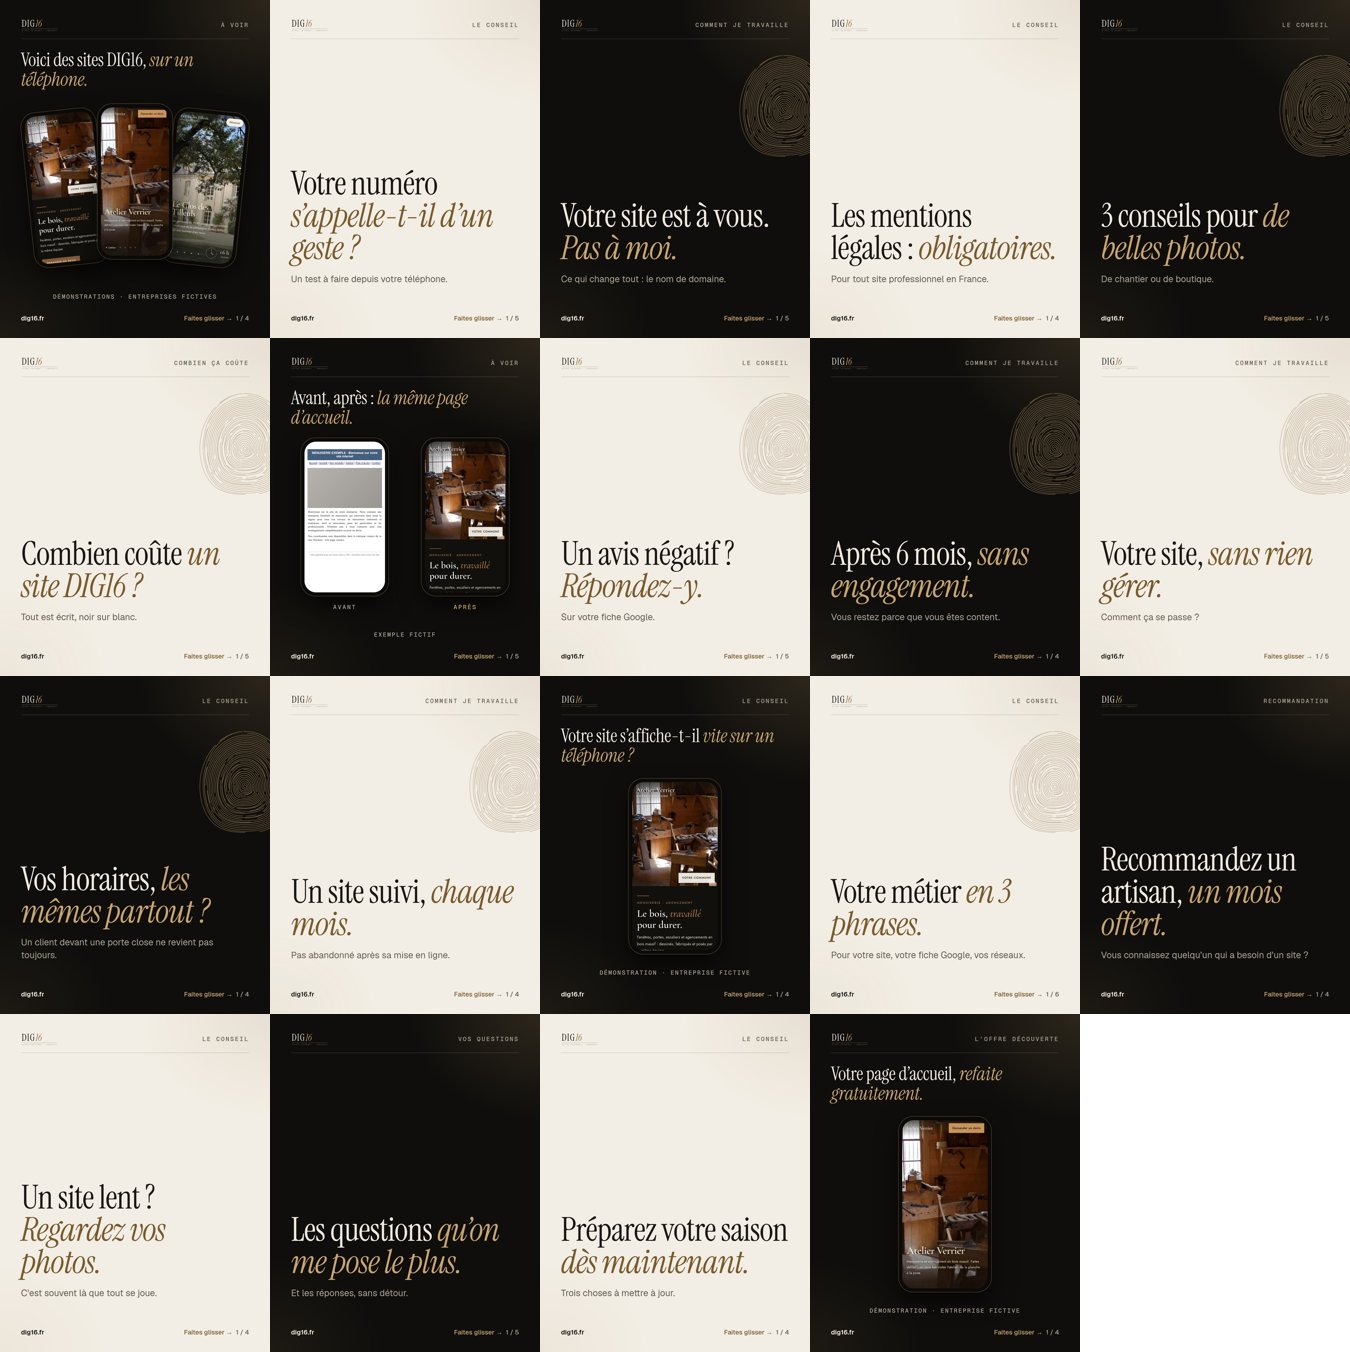
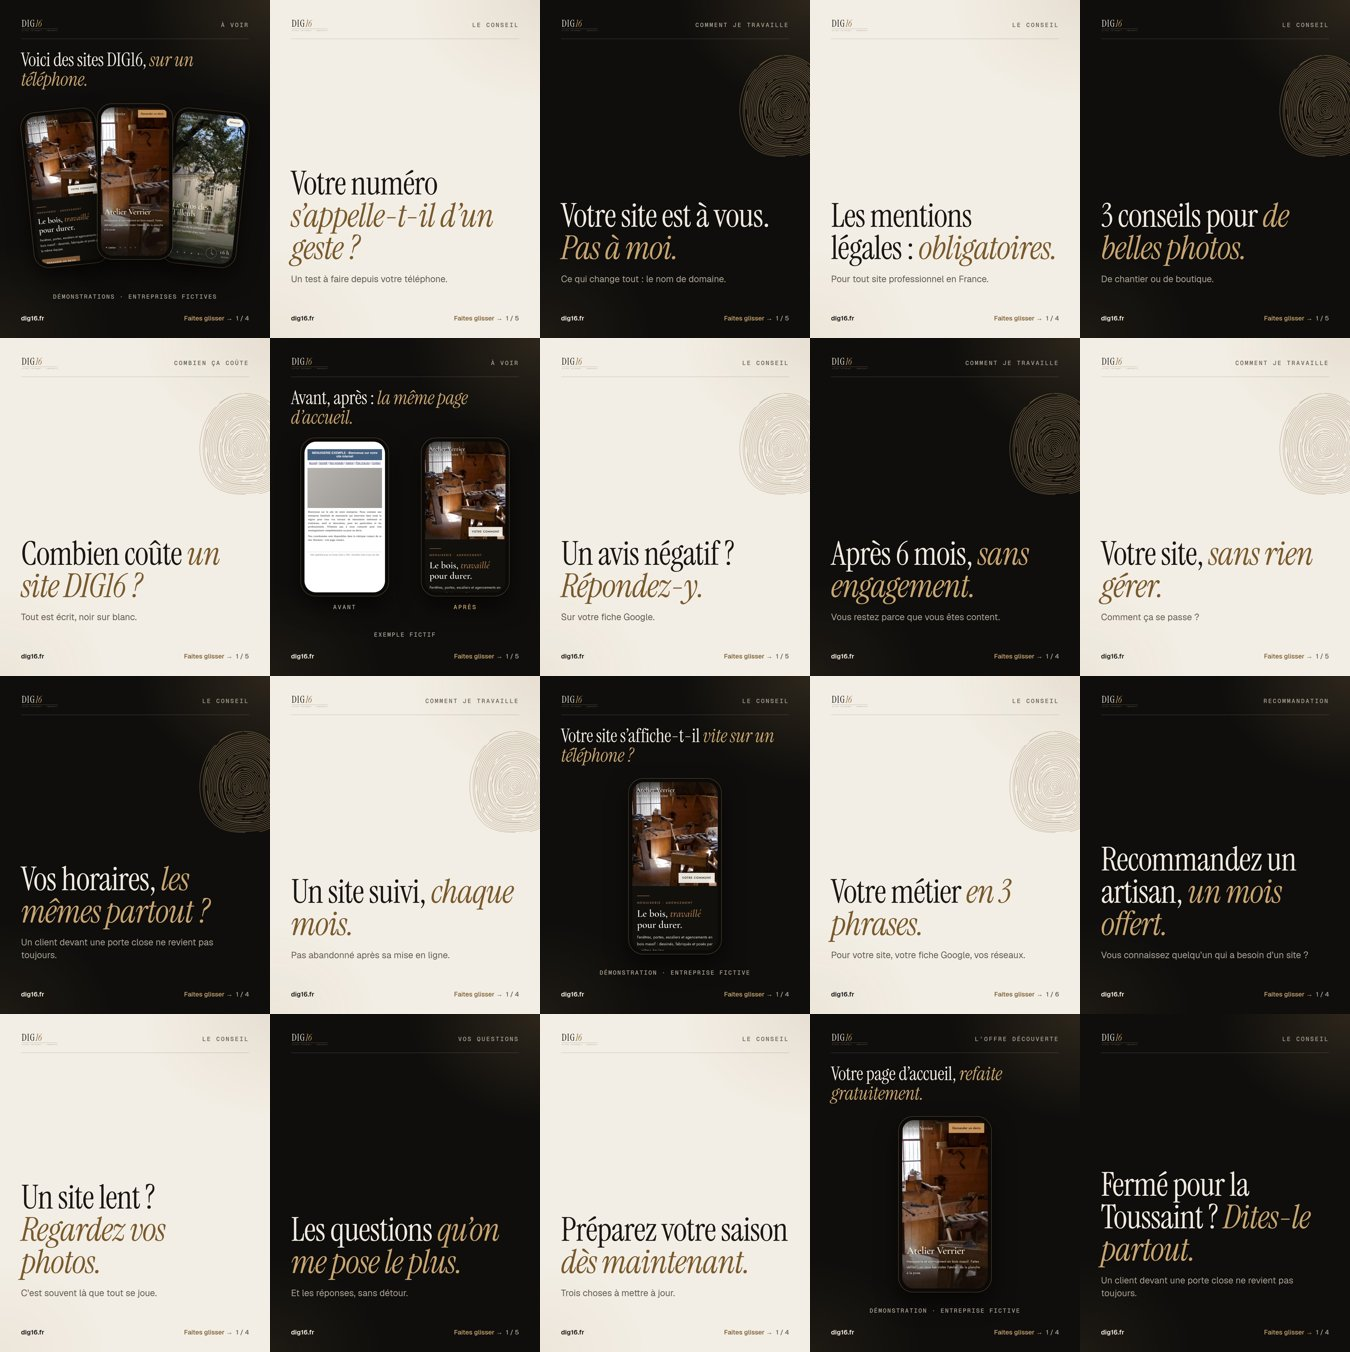
Publications : carrousel p20 « Fermé pour la Toussaint ? Dites-le partout » pour le samedi 31/10 (demande de l'utilisateur)
Claude-Session: https://claude.ai/code/session_01HXUPij67xudweYwrEb9uHq

Changed region(s): [[0.7778, 0.7456, 1.0, 1.0]]

diff --git a/ai-business-lab/chasse-demande/outils/marque/publications_v2.py b/ai-business-lab/chasse-demande/outils/marque/publications_v2.py
@@ -276,6 +276,23 @@ SERIE = [
      "legende": "Votre page d'accueil refaite gratuitement, pour voir avant de décider 🎁\n"
                 "Aucune obligation. Écrivez-moi ou appelez.",
      "alt": "L'offre découverte DIG16 : votre page d'accueil refaite gratuitement, sans obligation."},
+    # p20 (26/10) : demande de l'utilisateur de combler le samedi 31/10 (veille du week-end de la Toussaint) ;
+    # phrases reprises de p11 (horaires) et de la FAQ du site (« horaires, photo, promotion, congés… sous 3 jours ouvrés »).
+    {"id": "p20", "date": "2026-10-31T18:30:00", "theme": "sombre", "etiquette": "Le conseil", "metricool": None,
+     "titre_tiktok": "Fermé pour la Toussaint ? Dites-le partout",
+     "images": [
+         ("cover", "Fermé pour la Toussaint ? *Dites-le partout.*",
+          "Un client devant une porte close ne revient pas toujours."),
+         ("liste", "Où l'indiquer, en 5 minutes", ["Votre fiche Google", "Votre site", "Votre page Facebook",
+                                                    "Vos annuaires"]),
+         ("point", "", "Sur un site DIG16, *un email suffit.*",
+          "Horaires, congés, promotions : c'est fait sous 3 jours ouvrés."),
+         APPEL],
+     "legende": "Vous fermez pour la Toussaint ? 🍂 Dites-le là où vos clients regardent : votre fiche Google, "
+                "votre site, votre page Facebook.\n"
+                "Un client devant une porte close ne revient pas toujours.\n"
+                "Sur un site DIG16, un email suffit : horaires, congés, promotions sont à jour sous 3 jours ouvrés.",
+     "alt": "Le conseil DIG16 : avant la Toussaint, indiquer sa fermeture sur la fiche Google, le site et la page Facebook."},
 ]
 
 
